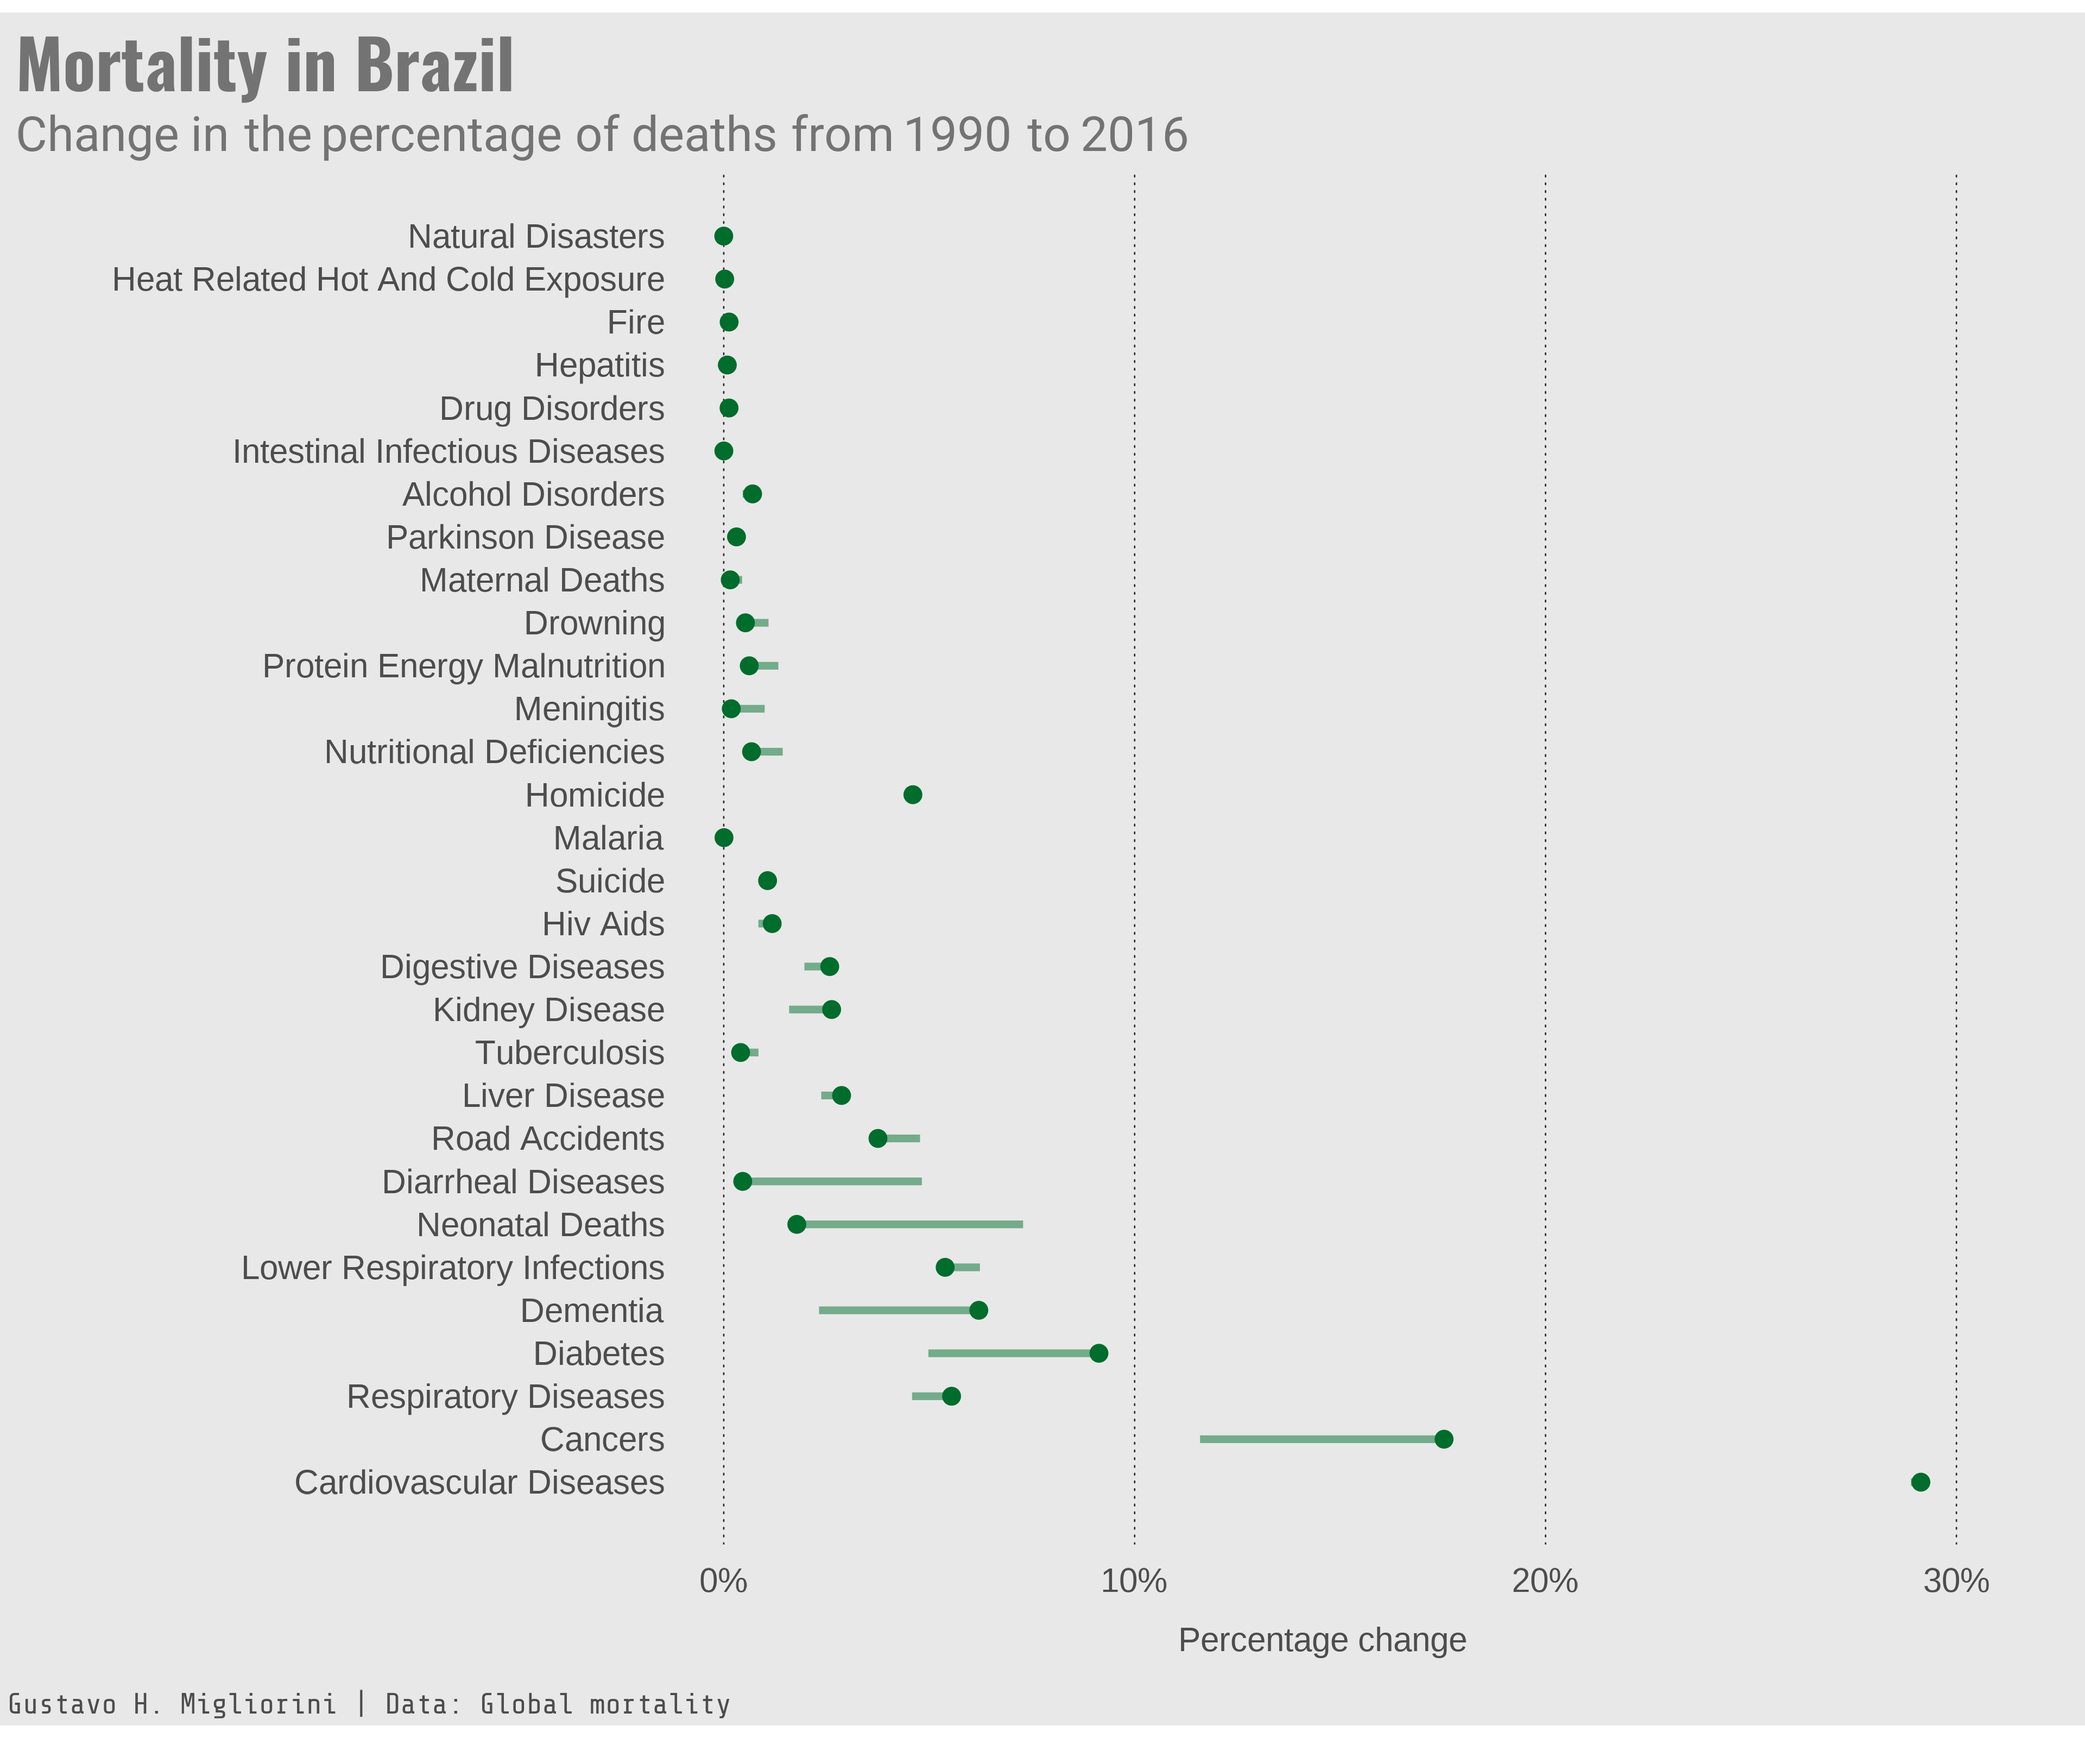
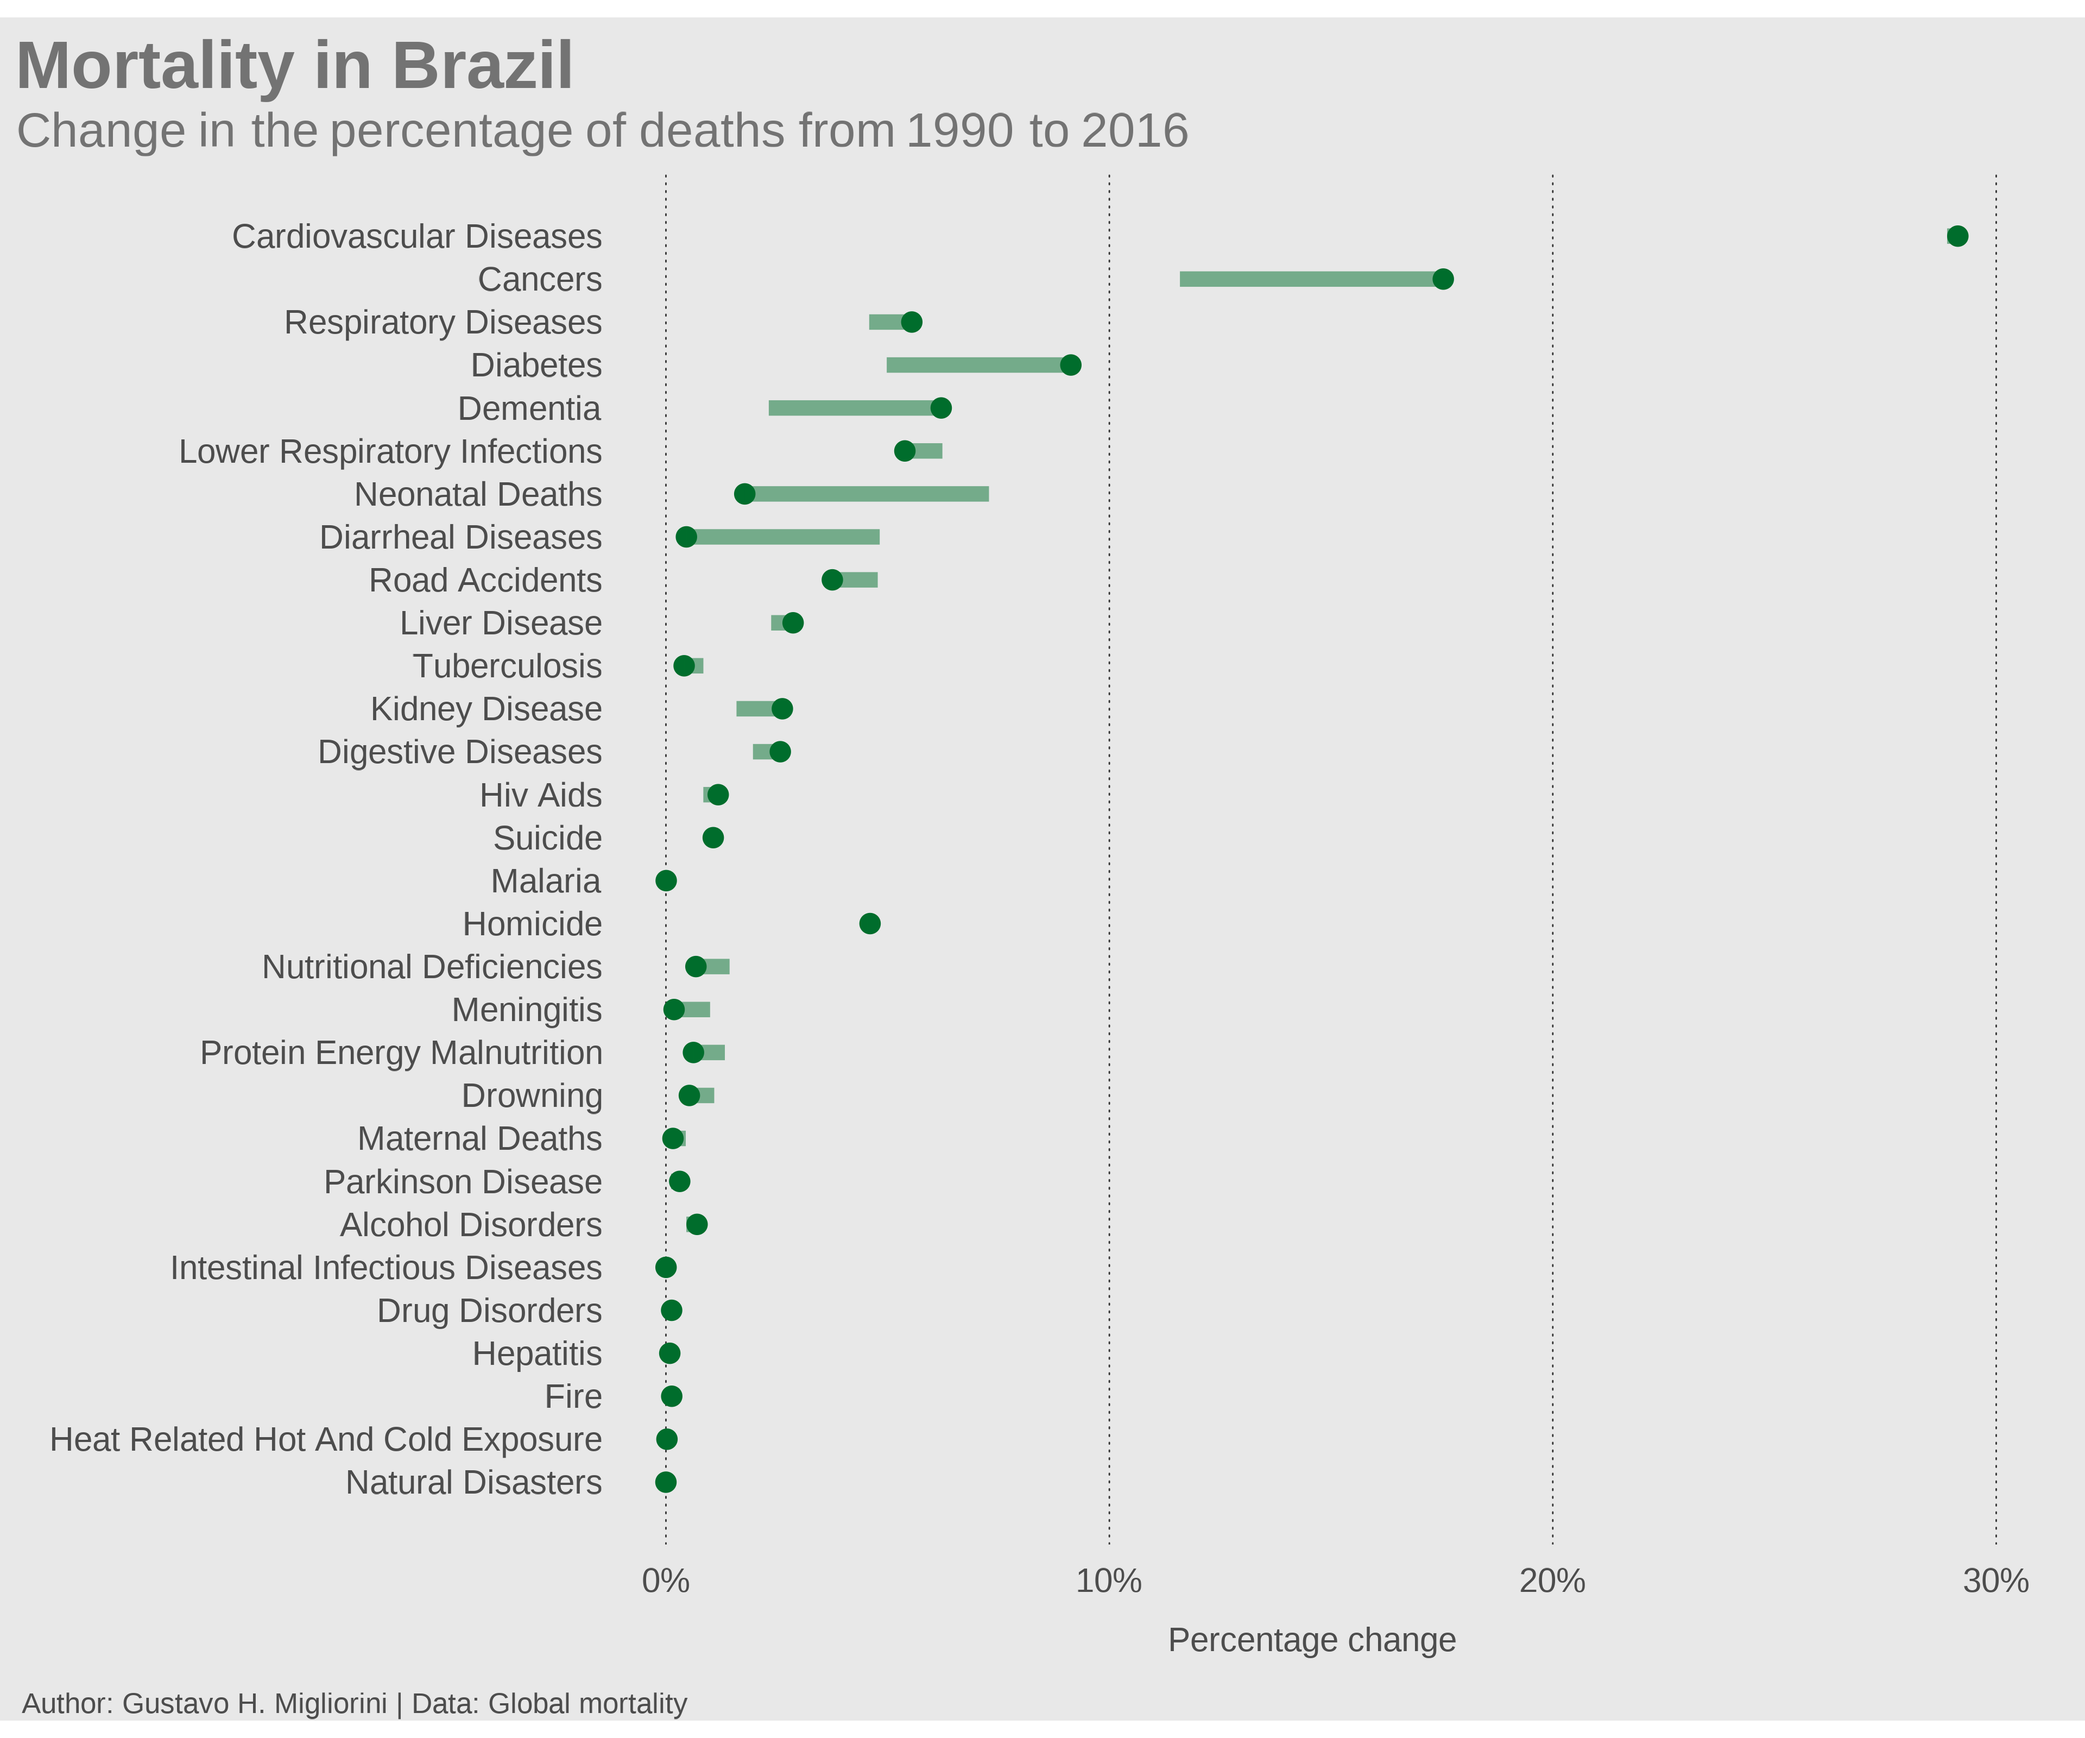
post update

diff --git a/content/post/2021-12-18-r-global-mortality/index.html b/content/post/2021-12-18-r-global-mortality/index.html
@@ -1,13 +1,13 @@
 ---
-title: R - Global mortality dataset - Tidytuesday
+title: R - Mortality in Brazil
 author:
   - admin
 date: '2021-12-18'
 slug: r-global-mortality
 categories: ["Data Science"]
 tags: ["R", "Tidyverse", "Tidytuesday"]
-subtitle: 'Data visualization with the global mortality dataset'
-summary: 'Data visualization with the global mortality dataset'
+subtitle: 'Data visualization using the global mortality dataset'
+summary: 'Data visualization using the global mortality dataset'
 authors: []
 lastmod: '2021-12-18T18:18:38-03:00'
 featured: no
@@ -24,48 +24,57 @@ output:
 <script src="{{< blogdown/postref >}}index_files/header-attrs/header-attrs.js"></script>
 
 
-<pre class="r"><code>library(tidyverse)
-library(tidytuesdayR)
+<p>Visualizing changes in mortality rates in Brazil according to different causes. Data from 1990 to 2016. This dataset is part of the <a href="https://github.com/rfordatascience/tidytuesday">Tidytuesday</a> project and is available <a href="https://github.com/rfordatascience/tidytuesday/tree/master/data/2018/2018-04-16">here</a>.</p>
+<pre class="r"><code># load packages
+library(tidyverse)
 library(showtext)
 library(cowplot)
 library(ggtext)</code></pre>
-<pre class="r"><code>font_add_google(&quot;Roboto&quot;, &quot;roboto&quot;)
-font_add_google(&quot;Oswald&quot;, &quot;oswald&quot;)
-font_add_google(&quot;Heebo&quot;, &quot;heebo&quot;)
-font_add_google(&quot;Share Tech Mono&quot;, &quot;techmono&quot;)
+<pre class="r"><code># Some initial configs for the plots
+
+# font_add_google(&quot;Roboto&quot;, &quot;roboto&quot;) # remove the &#39;#&#39; to run these lines for the first time
+# font_add_google(&quot;Oswald&quot;, &quot;oswald&quot;)
+# font_add_google(&quot;Heebo&quot;, &quot;heebo&quot;)
+# font_add_google(&quot;Share Tech Mono&quot;, &quot;techmono&quot;)
 showtext_opts(dpi = 320)
-showtext_auto(enable = TRUE)</code></pre>
-<pre class="r"><code>theme_set(theme_void(base_family = &quot;Roboto&quot;))
-theme_update(axis.title.x = element_text(color = &quot;grey30&quot;, size = 14, margin = margin(15,0,0,0)),
-             axis.text.x = element_text(color = &quot;grey30&quot;, size = 14, margin = margin(10,0,0,0)),
+showtext_auto(enable = TRUE)
+
+theme_set(theme_void(base_family = &quot;Roboto&quot;))
+theme_update(axis.title.x = element_text(color = &quot;grey30&quot;, 
+                                         size = 14, 
+                                         margin = margin(15,0,0,0)),
+             axis.text.x = element_text(color = &quot;grey30&quot;, 
+                                        size = 14, 
+                                        margin = margin(10,0,0,0)),
              axis.ticks.x = element_line(),
              axis.title.y = element_blank(),
-             axis.text.y = element_text(color = &quot;grey30&quot;, size = 14, hjust = 1),
+             axis.text.y = element_text(color = &quot;grey30&quot;, 
+                                        size = 14, 
+                                        hjust = 1),
              axis.ticks.y = element_line()
              )</code></pre>
-<pre class="r"><code>mortality &lt;- readxl::read_xlsx(&quot;C:/Users/Gustavo/Downloads/global_mortality.xlsx&quot;)
-mortality</code></pre>
-<pre><code>## # A tibble: 6,156 x 35
-##    country     country_code  year `Cardiovascular~ `Cancers (%)` `Respiratory di~
-##    &lt;chr&gt;       &lt;chr&gt;        &lt;dbl&gt;            &lt;dbl&gt;         &lt;dbl&gt;            &lt;dbl&gt;
-##  1 Afghanistan AFG           1990             17.6          4.03             2.11
-##  2 Afghanistan AFG           1991             17.8          4.05             2.13
-##  3 Afghanistan AFG           1992             18.4          4.17             2.21
-##  4 Afghanistan AFG           1993             19.0          4.27             2.28
-##  5 Afghanistan AFG           1994             19.1          4.26             2.31
-##  6 Afghanistan AFG           1995             19.9          4.39             2.41
-##  7 Afghanistan AFG           1996             20.4          4.48             2.49
-##  8 Afghanistan AFG           1997             20.4          4.45             2.49
-##  9 Afghanistan AFG           1998             19.6          4.26             2.41
-## 10 Afghanistan AFG           1999             21.1          4.57             2.60
-## # ... with 6,146 more rows, and 29 more variables: Diabetes (%) &lt;dbl&gt;,
-## #   Dementia (%) &lt;dbl&gt;, Lower respiratory infections (%) &lt;dbl&gt;,
-## #   Neonatal deaths (%) &lt;dbl&gt;, Diarrheal diseases (%) &lt;dbl&gt;,
-## #   Road accidents (%) &lt;dbl&gt;, Liver disease (%) &lt;dbl&gt;, Tuberculosis (%) &lt;dbl&gt;,
-## #   Kidney disease (%) &lt;dbl&gt;, Digestive diseases (%) &lt;dbl&gt;, HIV/AIDS (%) &lt;dbl&gt;,
-## #   Suicide (%) &lt;dbl&gt;, Malaria (%) &lt;dbl&gt;, Homicide (%) &lt;dbl&gt;,
-## #   Nutritional deficiencies (%) &lt;dbl&gt;, Meningitis (%) &lt;dbl&gt;, ...</code></pre>
-<pre class="r"><code>summary(mortality)</code></pre>
+<pre class="r"><code># load data
+# can be loaded using the tidytuesdayR package
+mortality &lt;- readxl::read_xlsx(&quot;C:/Users/Gustavo/Downloads/global_mortality.xlsx&quot;)
+head(mortality)</code></pre>
+<pre><code>## # A tibble: 6 x 35
+##   country     country_code  year `Cardiovascular~ `Cancers (%)` `Respiratory di~
+##   &lt;chr&gt;       &lt;chr&gt;        &lt;dbl&gt;            &lt;dbl&gt;         &lt;dbl&gt;            &lt;dbl&gt;
+## 1 Afghanistan AFG           1990             17.6          4.03             2.11
+## 2 Afghanistan AFG           1991             17.8          4.05             2.13
+## 3 Afghanistan AFG           1992             18.4          4.17             2.21
+## 4 Afghanistan AFG           1993             19.0          4.27             2.28
+## 5 Afghanistan AFG           1994             19.1          4.26             2.31
+## 6 Afghanistan AFG           1995             19.9          4.39             2.41
+## # ... with 29 more variables: Diabetes (%) &lt;dbl&gt;, Dementia (%) &lt;dbl&gt;,
+## #   Lower respiratory infections (%) &lt;dbl&gt;, Neonatal deaths (%) &lt;dbl&gt;,
+## #   Diarrheal diseases (%) &lt;dbl&gt;, Road accidents (%) &lt;dbl&gt;,
+## #   Liver disease (%) &lt;dbl&gt;, Tuberculosis (%) &lt;dbl&gt;, Kidney disease (%) &lt;dbl&gt;,
+## #   Digestive diseases (%) &lt;dbl&gt;, HIV/AIDS (%) &lt;dbl&gt;, Suicide (%) &lt;dbl&gt;,
+## #   Malaria (%) &lt;dbl&gt;, Homicide (%) &lt;dbl&gt;, Nutritional deficiencies (%) &lt;dbl&gt;,
+## #   Meningitis (%) &lt;dbl&gt;, Protein-energy malnutrition (%) &lt;dbl&gt;, ...</code></pre>
+<pre class="r"><code># check data
+summary(mortality)</code></pre>
 <pre><code>##    country          country_code            year     
 ##  Length:6156        Length:6156        Min.   :1990  
 ##  Class :character   Class :character   1st Qu.:1996  
@@ -154,9 +163,11 @@ mortality</code></pre>
 ##  3rd Qu.: 0.01695      3rd Qu.: 0.0170   3rd Qu.:0.0040  
 ##  Max.   :65.29420      Max.   :82.3170   Max.   :5.8770  
 ##                        NA&#39;s   :1398      NA&#39;s   :1398</code></pre>
-<pre class="r"><code>mortality &lt;- janitor::clean_names(mortality) |&gt;
+<pre class="r"><code># clean variable names
+mortality &lt;- janitor::clean_names(mortality) |&gt;
   rename_all(~str_remove(., &#39;_percent&#39;))</code></pre>
-<pre class="r"><code>df_br &lt;- mortality |&gt; 
+<pre class="r"><code># prepare the data
+df_br &lt;- mortality |&gt; 
   filter(country ==&quot;Brazil&quot;) |&gt;
   select(-conflict &amp; -terrorism) |&gt;
   gather(cause, percentage, cardiovascular_diseases:natural_disasters) |&gt;
@@ -168,38 +179,43 @@ mortality</code></pre>
   mutate(label_cod = as.numeric(as.factor(cause))) |&gt;
   mutate(cause = str_replace_all(cause, &quot;_&quot;, &quot; &quot;)) |&gt;
   mutate(cause = str_to_title(cause))</code></pre>
-<pre class="r"><code>label_y &lt;- df_br$label_cod
+<pre class="r"><code># plot 
+label_y &lt;- df_br$label_cod
 labels_cause &lt;- df_br$cause
 
 plot_br &lt;- df_br |&gt;
   ggplot() +
-  geom_point(aes(x=year_2016, y=label_cod), size = 3, color=&quot;#006d2c&quot;) +
-  geom_segment(aes(x = year_2016, xend=year_1990, y=label_cod, yend=label_cod), size = 1.5, color=&quot;#006d2c&quot;, alpha = 0.5) +
-  scale_y_continuous(breaks = label_y, labels = labels_cause) +
+  geom_point(aes(x=year_2016, y=desc(label_cod)), size = 3.5, color=&quot;#006d2c&quot;) +
+  geom_segment(aes(x = year_2016, xend=year_1990, 
+                   y=desc(label_cod), yend=desc(label_cod)), 
+               size = 3, color=&quot;#006d2c&quot;, alpha = 0.5) +
+  scale_y_continuous(breaks = desc(label_y), labels = labels_cause) +
   scale_x_continuous(labels=scales::percent_format(accuracy = 1, scale = 1)) +
   labs(x = &quot;Percentage change&quot;) +
   guides(color = &quot;none&quot;) +
-  theme(panel.grid.major.x = element_line(linetype = &quot;14&quot;, size = 0.3, color = &quot;grey20&quot;))</code></pre>
-<pre class="r"><code>fundo &lt;- ggplot() +
+  theme(panel.grid.major.x = element_line(linetype = &quot;14&quot;, 
+                                          size = 0.3, color = &quot;grey20&quot;))</code></pre>
+<pre class="r"><code># graphic background
+back_plt &lt;- ggplot() +
   scale_x_continuous(limits = c(0,80), expand = c(0,0))+
   scale_y_continuous(limits = c(0,60), expand = c(0,0))+
   coord_fixed() +
-  labs(title = &quot;Mortality in Brazil&quot;, subtitle = &quot;Change in the percentage of deaths from 1990 to 2016&quot;) +
+  labs(title = &quot;Mortality in Brazil&quot;, 
+       subtitle = &quot;Change in the percentage of deaths from 1990 to 2016&quot;) +
   theme_void() +
   theme(plot.background = element_rect(fill = &quot;#E8E8E8&quot;, color = NA),
-        plot.title = element_text(family = &quot;oswald&quot;, color = &quot;#737373&quot;, face = &quot;bold&quot;, size = 28, hjust = 0.01, margin = margin(10,0,5,0)),
-        plot.subtitle = element_textbox(family =&quot;roboto&quot;, color = &quot;#737373&quot;, size = 20, hjust = 0.02))
+        plot.title = element_text(family = &quot;oswald&quot;, color = &quot;#737373&quot;, 
+                                  face = &quot;bold&quot;, size = 28, hjust = 0.01, 
+                                  margin = margin(10,0,5,0)),
+        plot.subtitle = element_textbox(family =&quot;roboto&quot;, color = &quot;#737373&quot;, 
+                                        size = 20, hjust = 0.02))
 
-final &lt;- ggdraw(fundo) + 
-  draw_plot(plot_br, width = 0.9, height = 0.85, y = 0.05, x = 0.05) +
-  draw_text(x = 0.35, y = 0.02, 
+# final plot
+final &lt;- ggdraw(back_plt) + 
+  draw_plot(plot_br, width = 0.95, height = 0.85, y = 0.05, x = 0.02) +
+  draw_text(x = 0.33, y = 0.02, 
             text = &quot;Author: Gustavo H. Migliorini | Data: Global mortality&quot;, 
             family = &quot;techmono&quot;, size = 12, color = &quot;grey30&quot;, hjust = 1)</code></pre>
-<pre class="r"><code>ragg::agg_png(here::here(&quot;plots&quot;, paste0(&quot;mortality&quot;,&quot;.png&quot;)), res = 320, width = 12, height = 10, units = &quot;in&quot;)
-
-final
-
-dev.off()</code></pre>
 <pre><code>## png 
 ##   2</code></pre>
 <p><img src="{{< blogdown/postref >}}index_files/figure-html/mortality.png" /><!-- --></p>
